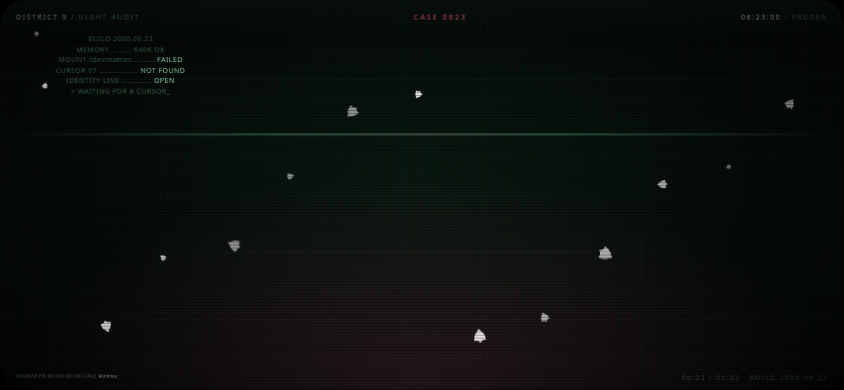
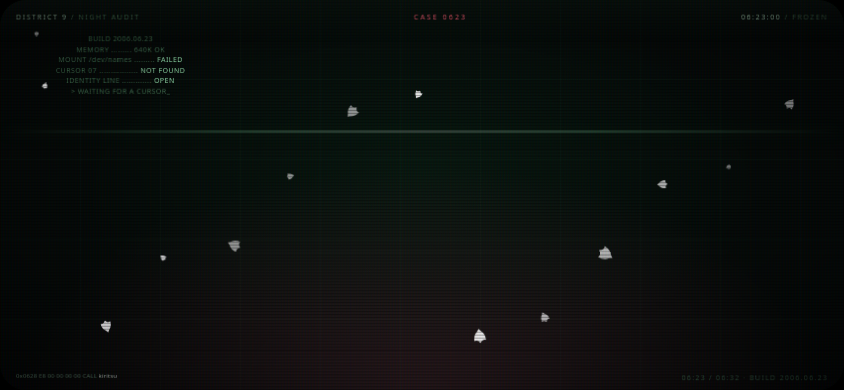
fix(vim): Vim-exact undo columns for linewise motion deletes

Changed region(s): [[0.2156, 0.3077, 0.7701, 0.3692]]

diff --git a/src/core/vim/engine.ts b/src/core/vim/engine.ts
@@ -886,7 +886,9 @@ export class Vim {
     this.yankMotionKey = motionKey;
     this.opMotionFrom = from;
     this.opMotionTo = to;
+    this.opMotionKey = motionKey;
     this.applyOp(op, range);
+    this.opMotionKey = '';
     if ((op.key === 'g~' || op.key === 'gu' || op.key === 'gU') && motionKey === 'G' && range.linewise && to.line < from.line) {
       const l1 = Math.min(range.start.line, range.end.line);
       this.cursor = { line: l1, col: M.firstNonBlank(this.buf, l1) };
@@ -903,6 +905,8 @@ export class Vim {
   rangeInclusive = false;
   /** True when the operator's range came from a text object. */
   private opTextObject = false;
+  /** Motion key of the operator currently being applied (undo-column rules). */
+  private opMotionKey = '';
 
   /** Motion endpoints of the operator that is currently being applied. */
   private opMotionFrom: Pos | null = null;
@@ -1349,30 +1353,39 @@ export class Vim {
       const count = l2 - l1 + 1;
       const undoCol = this.cursor.col;
       const wasVisual = this.mode.startsWith('visual');
+      const sameStart = r.start.line === this.cursor.line;
       const removed = this.buf.lines.splice(l1, count, ...(change ? [''] : []));
       const becameEmpty = this.buf.lines.length === 0;
       if (becameEmpty) this.buf.setLines(['']);
-      // Vim undo lands on the last removed line at the command's column; if
-      // the buffer became empty it lands on the first removed line instead.
+      // Vim's linewise delete undoes to the first line of the range. A range
+      // that started on the command line keeps the command column; a range
+      // that crossed from another line (gg, %, B, ...) uses that line's first
+      // non-blank. `dd`/`2dd` have their own probed column rules.
+      const firstStart = (() => {
+        const line = before.lines[l1] ?? '';
+        const first = line.search(/[^ \t]/);
+        return first < 0 ? Math.max(0, line.length - 1) : first;
+      })();
+      let linewiseDeleteCol = wasVisual
+        ? 0
+        : this.op?.doubled
+          ? (this.op.count || 1) === 1
+            ? Math.min(undoCol, firstStart)
+            : undoCol
+          : this.opTextObject || l2 === l1
+            ? 0
+            : sameStart
+              ? undoCol
+              : firstStart;
+      // `dk` is the exception to the range-start model: non-empty undo stays
+      // at column 0, while an emptied buffer keeps the command column.
+      if (!wasVisual && this.opMotionKey === 'k') linewiseDeleteCol = becameEmpty ? undoCol : 0;
       before.undoCursor = change
         ? {
             line: l1 === l2 ? l1 : l1 + 1,
             col: wasVisual ? this.visualAnchor?.col ?? 0 : this.opTextObject || l1 === l2 ? 0 : undoCol,
           }
-        : becameEmpty
-          ? { line: l1, col: this.opTextObject || wasVisual || (this.opMotionFrom?.line ?? 0) > l1 ? 0 : before.lines.length === 1 ? 0 : undoCol }
-          : {
-              line: l1,
-              col: this.op?.doubled
-                ? (this.op.count || 1) === 1
-                  ? Math.min(undoCol, (() => {
-                      const line = before.lines[l1] ?? '';
-                      const first = line.search(/[^ \t]/);
-                      return first < 0 ? Math.max(0, line.length - 1) : first;
-                    })())
-                  : undoCol
-                : 0,
-            };
+        : { line: l1, col: linewiseDeleteCol };
       this.buf.setLines(this.buf.lines);
       this.storeRegister(reg, removed.join('\n') + '\n', true, false);
       const target = Math.min(l1, this.buf.lineCount - 1);

diff --git a/tests/vim.test.ts b/tests/vim.test.ts
@@ -144,6 +144,36 @@ test('single dd keeps an indented command column on undo (Vim)', () => {
   assert.deepEqual(v.cursor, { line: 0, col: 2 });
 });
 
+test('linewise delete undo lands on the range start (Vim)', () => {
+  const a = new Vim({ text: 'foo bar\nbaz qux' });
+  a.cursor = { line: 1, col: 1 };
+  a.feedString('dgg');
+  a.feedString('u');
+  assert.equal(a.text, 'foo bar\nbaz qux');
+  assert.deepEqual(a.cursor, { line: 0, col: 0 });
+
+  const b = new Vim({ text: 'if (x) {\n  y();\n}' });
+  b.cursor = { line: 0, col: 2 };
+  b.feedString('2dgg');
+  b.feedString('u');
+  assert.equal(b.text, 'if (x) {\n  y();\n}');
+  assert.deepEqual(b.cursor, { line: 0, col: 2 });
+});
+
+test('dk keeps the Vim exception columns on undo', () => {
+  const a = new Vim({ text: 'if (x) {\n  y();\n}' });
+  a.cursor = { line: 2, col: 0 };
+  a.feedString('dk');
+  a.feedString('u');
+  assert.deepEqual(a.cursor, { line: 1, col: 0 });
+
+  const b = new Vim({ text: 'foo bar\nbaz qux' });
+  b.cursor = { line: 1, col: 1 };
+  b.feedString('dk');
+  b.feedString('u');
+  assert.deepEqual(b.cursor, { line: 0, col: 1 });
+});
+
 test('whole-line charwise yanks are linewise registers', () => {
   const a = new Vim({ text: 'a\n\nb\n\nc' });
   a.feedString('y)');

diff --git a/docs/STATE_REPORT.md b/docs/STATE_REPORT.md
@@ -8,13 +8,13 @@
 | metric | value |
 |---|---|
 | cases | 21712 |
-| matched | 21595 |
-| divergences | 117 |
+| matched | 21604 |
+| divergences | 108 |
 | engine errors | 0 |
 
 | field | count |
 |---|---:|
-| undo | 108 |
+| undo | 99 |
 | reg | 10 |
 | regtype | 8 |
 
@@ -27,18 +27,12 @@
 - `visual/v/>/G` keys=`vG>` text=`"foo bar\nbaz qux"` @[1,2] fields=undo
   - vim: `{"reg":"","cursor":[1,2],"lines":["  foo bar","  baz qux"],"regtype":"charwise","undo":{"cursor":[1,2],"lines":["foo bar","baz qux"]}}`
   - eng: `{"lines":["  foo bar","  baz qux"],"cursor":[1,2],"reg":"","regtype":"charwise","undo":{"lines":["foo bar","baz qux"],"cursor":[1,0]}}`
-- `normal/d/motion/gg` keys=`dgg` text=`"foo bar\nbaz qux"` @[2,1] fields=undo
-  - vim: `{"reg":"foo bar\nbaz qux\n","cursor":[1,0],"lines":[""],"regtype":"linewise","undo":{"cursor":[1,0],"lines":["foo bar","baz qux"]}}`
-  - eng: `{"lines":[""],"cursor":[1,0],"reg":"foo bar\nbaz qux\n","regtype":"linewise","undo":{"lines":["foo bar","baz qux"],"cursor":[1,1]}}`
 - `normal/c/motion/gg` keys=`cggX<Esc>` text=`"foo bar\nbaz qux"` @[2,1] fields=undo
   - vim: `{"reg":"foo bar\nbaz qux\n","cursor":[1,0],"lines":["X"],"regtype":"linewise","undo":{"cursor":[2,0],"lines":["foo bar","baz qux"]}}`
   - eng: `{"lines":["X"],"cursor":[1,0],"reg":"foo bar\nbaz qux\n","regtype":"linewise","undo":{"lines":["foo bar","baz qux"],"cursor":[2,1]}}`
 - `normal/>/motion/gg` keys=`>gg` text=`"foo bar\nbaz qux"` @[2,1] fields=undo
   - vim: `{"reg":"","cursor":[1,2],"lines":["  foo bar","  baz qux"],"regtype":"charwise","undo":{"cursor":[1,0],"lines":["foo bar","baz qux"]}}`
   - eng: `{"lines":["  foo bar","  baz qux"],"cursor":[1,2],"reg":"","regtype":"charwise","undo":{"lines":["foo bar","baz qux"],"cursor":[1,1]}}`
-- `normal/d/motion/%` keys=`2d%` text=`"foo bar\nbaz qux"` @[2,1] fields=undo
-  - vim: `{"reg":"foo bar\nbaz qux\n","cursor":[1,0],"lines":[""],"regtype":"linewise","undo":{"cursor":[1,0],"lines":["foo bar","baz qux"]}}`
-  - eng: `{"lines":[""],"cursor":[1,0],"reg":"foo bar\nbaz qux\n","regtype":"linewise","undo":{"lines":["foo bar","baz qux"],"cursor":[1,1]}}`
 - `normal/c/motion/%` keys=`2c%X<Esc>` text=`"foo bar\nbaz qux"` @[2,1] fields=undo
   - vim: `{"reg":"foo bar\nbaz qux\n","cursor":[1,0],"lines":["X"],"regtype":"linewise","undo":{"cursor":[2,0],"lines":["foo bar","baz qux"]}}`
   - eng: `{"lines":["X"],"cursor":[1,0],"reg":"foo bar\nbaz qux\n","regtype":"linewise","undo":{"lines":["foo bar","baz qux"],"cursor":[2,1]}}`
@@ -153,9 +147,6 @@
 - `visual/v/</G` keys=`vG<` text=`"  indented\nnormal"` @[1,2] fields=undo
   - vim: `{"reg":"","cursor":[1,0],"lines":["indented","normal"],"regtype":"charwise","undo":{"cursor":[1,2],"lines":["  indented","normal"]}}`
   - eng: `{"lines":["indented","normal"],"cursor":[1,0],"reg":"","regtype":"charwise","undo":{"lines":["  indented","normal"],"cursor":[1,0]}}`
-- `normal/d/motion/gg` keys=`dgg` text=`"  indented\nnormal"` @[2,1] fields=undo
-  - vim: `{"reg":"  indented\nnormal\n","cursor":[1,0],"lines":[""],"regtype":"linewise","undo":{"cursor":[1,2],"lines":["  indented","normal"]}}`
-  - eng: `{"lines":[""],"cursor":[1,0],"reg":"  indented\nnormal\n","regtype":"linewise","undo":{"lines":["  indented","normal"],"cursor":[1,1]}}`
 - `normal/c/motion/gg` keys=`cggX<Esc>` text=`"  indented\nnormal"` @[2,1] fields=undo
   - vim: `{"reg":"  indented\nnormal\n","cursor":[1,0],"lines":["X"],"regtype":"linewise","undo":{"cursor":[2,2],"lines":["  indented","normal"]}}`
   - eng: `{"lines":["X"],"cursor":[1,0],"reg":"  indented\nnormal\n","regtype":"linewise","undo":{"lines":["  indented","normal"],"cursor":[2,1]}}`
@@ -165,9 +156,6 @@
 - `normal/</motion/gg` keys=`<gg` text=`"  indented\nnormal"` @[2,1] fields=undo
   - vim: `{"reg":"","cursor":[1,0],"lines":["indented","normal"],"regtype":"charwise","undo":{"cursor":[1,2],"lines":["  indented","normal"]}}`
   - eng: `{"lines":["indented","normal"],"cursor":[1,0],"reg":"","regtype":"charwise","undo":{"lines":["  indented","normal"],"cursor":[1,1]}}`
-- `normal/d/motion/%` keys=`2d%` text=`"  indented\nnormal"` @[2,1] fields=undo
-  - vim: `{"reg":"  indented\nnormal\n","cursor":[1,0],"lines":[""],"regtype":"linewise","undo":{"cursor":[1,2],"lines":["  indented","normal"]}}`
-  - eng: `{"lines":[""],"cursor":[1,0],"reg":"  indented\nnormal\n","regtype":"linewise","undo":{"lines":["  indented","normal"],"cursor":[1,1]}}`
 - `normal/c/motion/%` keys=`2c%X<Esc>` text=`"  indented\nnormal"` @[2,1] fields=undo
   - vim: `{"reg":"  indented\nnormal\n","cursor":[1,0],"lines":["X"],"regtype":"linewise","undo":{"cursor":[2,2],"lines":["  indented","normal"]}}`
   - eng: `{"lines":["X"],"cursor":[1,0],"reg":"  indented\nnormal\n","regtype":"linewise","undo":{"lines":["  indented","normal"],"cursor":[2,1]}}`
@@ -231,9 +219,6 @@
 - `normal/</object/a{` keys=`<a{` text=`"if (x) {\n  y();\n}"` @[1,0] fields=undo
   - vim: `{"reg":"","cursor":[1,0],"lines":["if (x) {","y();","}"],"regtype":"charwise","undo":{"cursor":[1,7],"lines":["if (x) {","  y();","}"]}}`
   - eng: `{"lines":["if (x) {","y();","}"],"cursor":[1,0],"reg":"","regtype":"charwise","undo":{"lines":["if (x) {","  y();","}"],"cursor":[1,0]}}`
-- `normal/d/motion/j` keys=`dj` text=`"if (x) {\n  y();\n}"` @[1,2] fields=undo
-  - vim: `{"reg":"if (x) {\n  y();\n","cursor":[1,0],"lines":["}"],"regtype":"linewise","undo":{"cursor":[1,2],"lines":["if (x) {","  y();","}"]}}`
-  - eng: `{"lines":["}"],"cursor":[1,0],"reg":"if (x) {\n  y();\n","regtype":"linewise","undo":{"lines":["if (x) {","  y();","}"],"cursor":[1,0]}}`
 - `normal/>/motion/}` keys=`>}` text=`"if (x) {\n  y();\n}"` @[1,2] fields=undo
   - vim: `{"reg":"","cursor":[1,2],"lines":["  if (x) {","    y();","  }"],"regtype":"charwise","undo":{"cursor":[1,2],"lines":["if (x) {","  y();","}"]}}`
   - eng: `{"lines":["  if (x) {","    y();","  }"],"cursor":[1,2],"reg":"","regtype":"charwise","undo":{"lines":["if (x) {","  y();","}"],"cursor":[1,0]}}`
@@ -252,9 +237,24 @@
 - `normal/</object/a{` keys=`<a{` text=`"if (x) {\n  y();\n}"` @[1,2] fields=undo
   - vim: `{"reg":"","cursor":[1,0],"lines":["if (x) {","y();","}"],"regtype":"charwise","undo":{"cursor":[1,7],"lines":["if (x) {","  y();","}"]}}`
   - eng: `{"lines":["if (x) {","y();","}"],"cursor":[1,0],"reg":"","regtype":"charwise","undo":{"lines":["if (x) {","  y();","}"],"cursor":[1,0]}}`
-- `normal/d/motion/gg` keys=`2dgg` text=`"if (x) {\n  y();\n}"` @[1,2] fields=undo
-  - vim: `{"reg":"if (x) {\n  y();\n","cursor":[1,0],"lines":["}"],"regtype":"linewise","undo":{"cursor":[1,2],"lines":["if (x) {","  y();","}"]}}`
-  - eng: `{"lines":["}"],"cursor":[1,0],"reg":"if (x) {\n  y();\n","regtype":"linewise","undo":{"lines":["if (x) {","  y();","}"],"cursor":[1,0]}}`
-- `normal/d/motion/G` keys=`2dG` text=`"if (x) {\n  y();\n}"` @[1,2] fields=undo
-  - vim: `{"reg":"if (x) {\n  y();\n","cursor":[1,0],"lines":["}"],"regtype":"linewise","undo":{"cursor":[1,2],"lines":["if (x) {","  y();","}"]}}`
-  - eng: `{"lines":["}"],"cursor":[1,0],"reg":"if (x) {\n  y();\n","regtype":"linewise","undo":{"lines":["if (x) {","  y();","}"],"cursor":[1,0]}}`
+- `visual/v/>/G` keys=`vG>` text=`"if (x) {\n  y();\n}"` @[1,2] fields=undo
+  - vim: `{"reg":"","cursor":[1,2],"lines":["  if (x) {","    y();","  }"],"regtype":"charwise","undo":{"cursor":[1,2],"lines":["if (x) {","  y();","}"]}}`
+  - eng: `{"lines":["  if (x) {","    y();","  }"],"cursor":[1,2],"reg":"","regtype":"charwise","undo":{"lines":["if (x) {","  y();","}"],"cursor":[1,0]}}`
+- `visual/v/</G` keys=`vG<` text=`"if (x) {\n  y();\n}"` @[1,2] fields=undo
+  - vim: `{"reg":"","cursor":[1,0],"lines":["if (x) {","y();","}"],"regtype":"charwise","undo":{"cursor":[1,2],"lines":["if (x) {","  y();","}"]}}`
+  - eng: `{"lines":["if (x) {","y();","}"],"cursor":[1,0],"reg":"","regtype":"charwise","undo":{"lines":["if (x) {","  y();","}"],"cursor":[1,0]}}`
+- `visual/v/>/}` keys=`v}>` text=`"if (x) {\n  y();\n}"` @[1,2] fields=undo
+  - vim: `{"reg":"","cursor":[1,2],"lines":["  if (x) {","    y();","  }"],"regtype":"charwise","undo":{"cursor":[1,2],"lines":["if (x) {","  y();","}"]}}`
+  - eng: `{"lines":["  if (x) {","    y();","  }"],"cursor":[1,2],"reg":"","regtype":"charwise","undo":{"lines":["if (x) {","  y();","}"],"cursor":[1,0]}}`
+- `visual/v/</}` keys=`v}<` text=`"if (x) {\n  y();\n}"` @[1,2] fields=undo
+  - vim: `{"reg":"","cursor":[1,0],"lines":["if (x) {","y();","}"],"regtype":"charwise","undo":{"cursor":[1,2],"lines":["if (x) {","  y();","}"]}}`
+  - eng: `{"lines":["if (x) {","y();","}"],"cursor":[1,0],"reg":"","regtype":"charwise","undo":{"lines":["if (x) {","  y();","}"],"cursor":[1,0]}}`
+- `normal/d/motion/B` keys=`dB` text=`"if (x) {\n  y();\n}"` @[3,0] fields=undo
+  - vim: `{"reg":"  y();\n","cursor":[2,0],"lines":["if (x) {","}"],"regtype":"linewise","undo":{"cursor":[2,2],"lines":["if (x) {","  y();","}"]}}`
+  - eng: `{"lines":["if (x) {","}"],"cursor":[2,0],"reg":"  y();\n","regtype":"linewise","undo":{"lines":["if (x) {","  y();","}"],"cursor":[2,0]}}`
+- `normal/c/motion/B` keys=`cBX<Esc>` text=`"if (x) {\n  y();\n}"` @[3,0] fields=undo
+  - vim: `{"reg":"  y();\n","cursor":[2,0],"lines":["if (x) {","X","}"],"regtype":"linewise","undo":{"cursor":[2,2],"lines":["if (x) {","  y();","}"]}}`
+  - eng: `{"lines":["if (x) {","X","}"],"cursor":[2,0],"reg":"  y();\n","regtype":"linewise","undo":{"lines":["if (x) {","  y();","}"],"cursor":[2,0]}}`
+- `normal/y/motion/b` keys=`yb` text=`"if (x) {\n  y();\n}"` @[3,0] fields=reg
+  - vim: `{"reg":"();","cursor":[2,3],"lines":["if (x) {","  y();","}"],"regtype":"charwise","undo":{"cursor":[1,0],"lines":[""]}}`
+  - eng: `{"lines":["if (x) {","  y();","}"],"cursor":[2,3],"reg":"();\n","regtype":"charwise","undo":{"lines":["if (x) {","  y();","}"],"cursor":[2,3]}}`

diff --git a/docs/STATE_DEBT.md b/docs/STATE_DEBT.md
@@ -6,8 +6,8 @@
 ## Current
 
 - Differential fuzz debt: **3 visual edge cases** in [`FUZZ_DEBT.md`](FUZZ_DEBT.md).
-- Full observable-state matrix: **21,595 / 21,712 matched, 117 open**
-  (`undo 108`, `reg 10`, `regtype 8`). Local-only; report regenerated with
+- Full observable-state matrix: **21,604 / 21,712 matched, 108 open**
+  (`undo 99`, `reg 10`, `regtype 8`). Local-only; report regenerated with
   `npm run state-matrix -- --write`.
 - Shipped stage solutions: **51 / 51** match real Vim (`npm run level-oracle`).
 - Game-used solution + undo: **51 / 51** (`npm run level-oracle -- --undo`).
@@ -16,12 +16,13 @@
 - All 51 stages have evidence-checked book citations; the citations are a
   build-time overlay and do not affect bundle/state.
 
-## What the 117 mean
+## What the 108 mean
 
 Most are **undo cursor** after edge-motion operators (counted/backward
 linewise ops, visual ranges, `2>B`, `dgg`, etc.) and a few register/regtype
-cases for count+text-object yanks. `2dd`/`3dd` preserve the command column, and a single `dd` keeps an
-indented command column; 108 undo cases remain. They are real Vim differences, not test noise and
+cases for count+text-object yanks. `dd`/`2dd`/`3dd` and multi-line motion deletes now follow probed Vim
+start-column rules (`dgg`, `dG`, `dB`, `2dgg`, `dk` exception); 99 undo cases
+remain. They are real Vim differences, not test noise and
 are not silently waived.
 
 ## Priorities

diff --git a/docs/AUTOMATION_LOG.md b/docs/AUTOMATION_LOG.md
@@ -116,3 +116,18 @@ story canon must not change.
   regtype 8). `m-8864` and `m-14904` fixed; no new failures.
 - Added regression tests for both. Oracle 373 of 373, level-oracle 51 of 51
   solution+undo, tests green, build/budget/PWA green.
+
+## Round 6 — linewise motion deletes
+
+- Probed Vim's linewise delete undo for `dgg`, `dG`, `dB`, `2dgg`, `dk`:
+  - a multi-line motion delete lands on the range's first line;
+  - if the range starts on the command line, keep the command column;
+  - if it crossed from another line, use that line's first non-blank;
+  - `dk` is the exception: non-empty undo is column 0, an emptied buffer keeps
+    the command column.
+- Implemented only for non-doubled multi-line motion deletes; text objects,
+  single-line deletes, visual ranges, and `dd` keep their existing probed rules.
+- State matrix: **117 → 108** (matched 21,604; undo 99; reg 10; regtype 8).
+  No new failures; 11 old failures removed.
+- Added `dgg`/`2dgg`/`dk` regression tests. Oracle 373 of 373, level-oracle
+  51 of 51 solution+undo, build/budget/PWA green.

diff --git a/docs/STATUS.md b/docs/STATUS.md
@@ -16,9 +16,9 @@
 | audited book headings / problems / rejected | 2554 / 129 / 0 |
 | priority chapters / commands / concepts / defects / rejected | 28 / 417 / 336 / 175 / 0 |
 | game-used solutions / undo diagnostic | 51 of 51 / 51 of 51 |
-| state matrix matched / total / open | 21,595 / 21,712 / 117 |
-| state open by field | undo 108, reg 10, regtype 8 |
-| built single file (raw) | 402,932 B |
+| state matrix matched / total / open | 21,604 / 21,712 / 108 |
+| state open by field | undo 99, reg 10, regtype 8 |
+| built single file (raw) | 403,029 B |
 | raw ceiling | 420,000 B |
 ## Reports
 - Oracle: `tools/oracle-diff.ts` + `tests/vim-expected.json`
